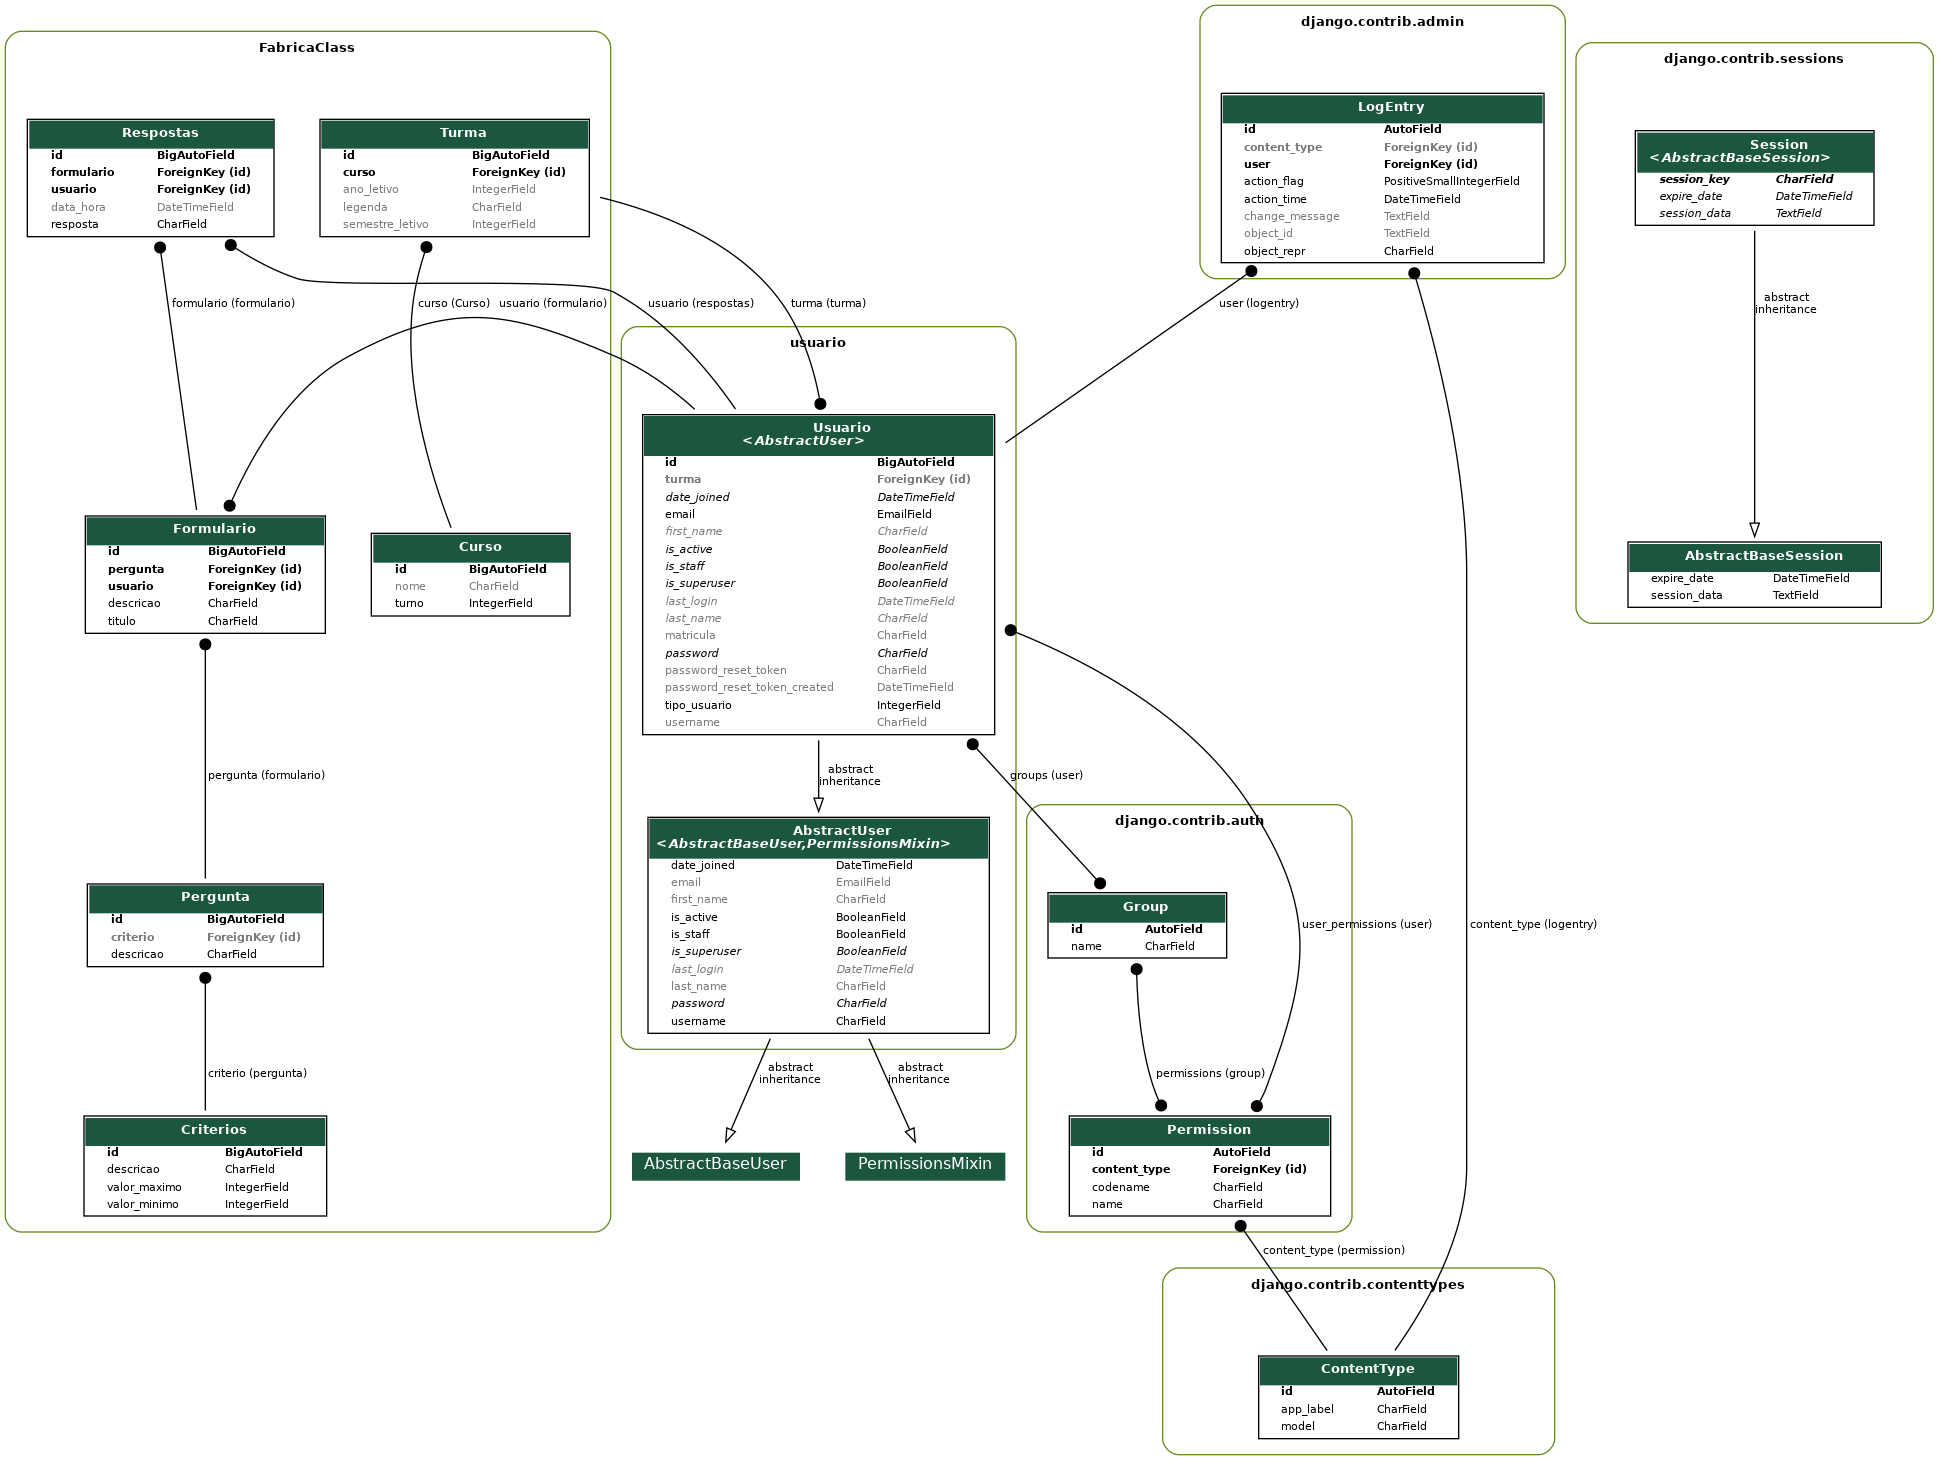
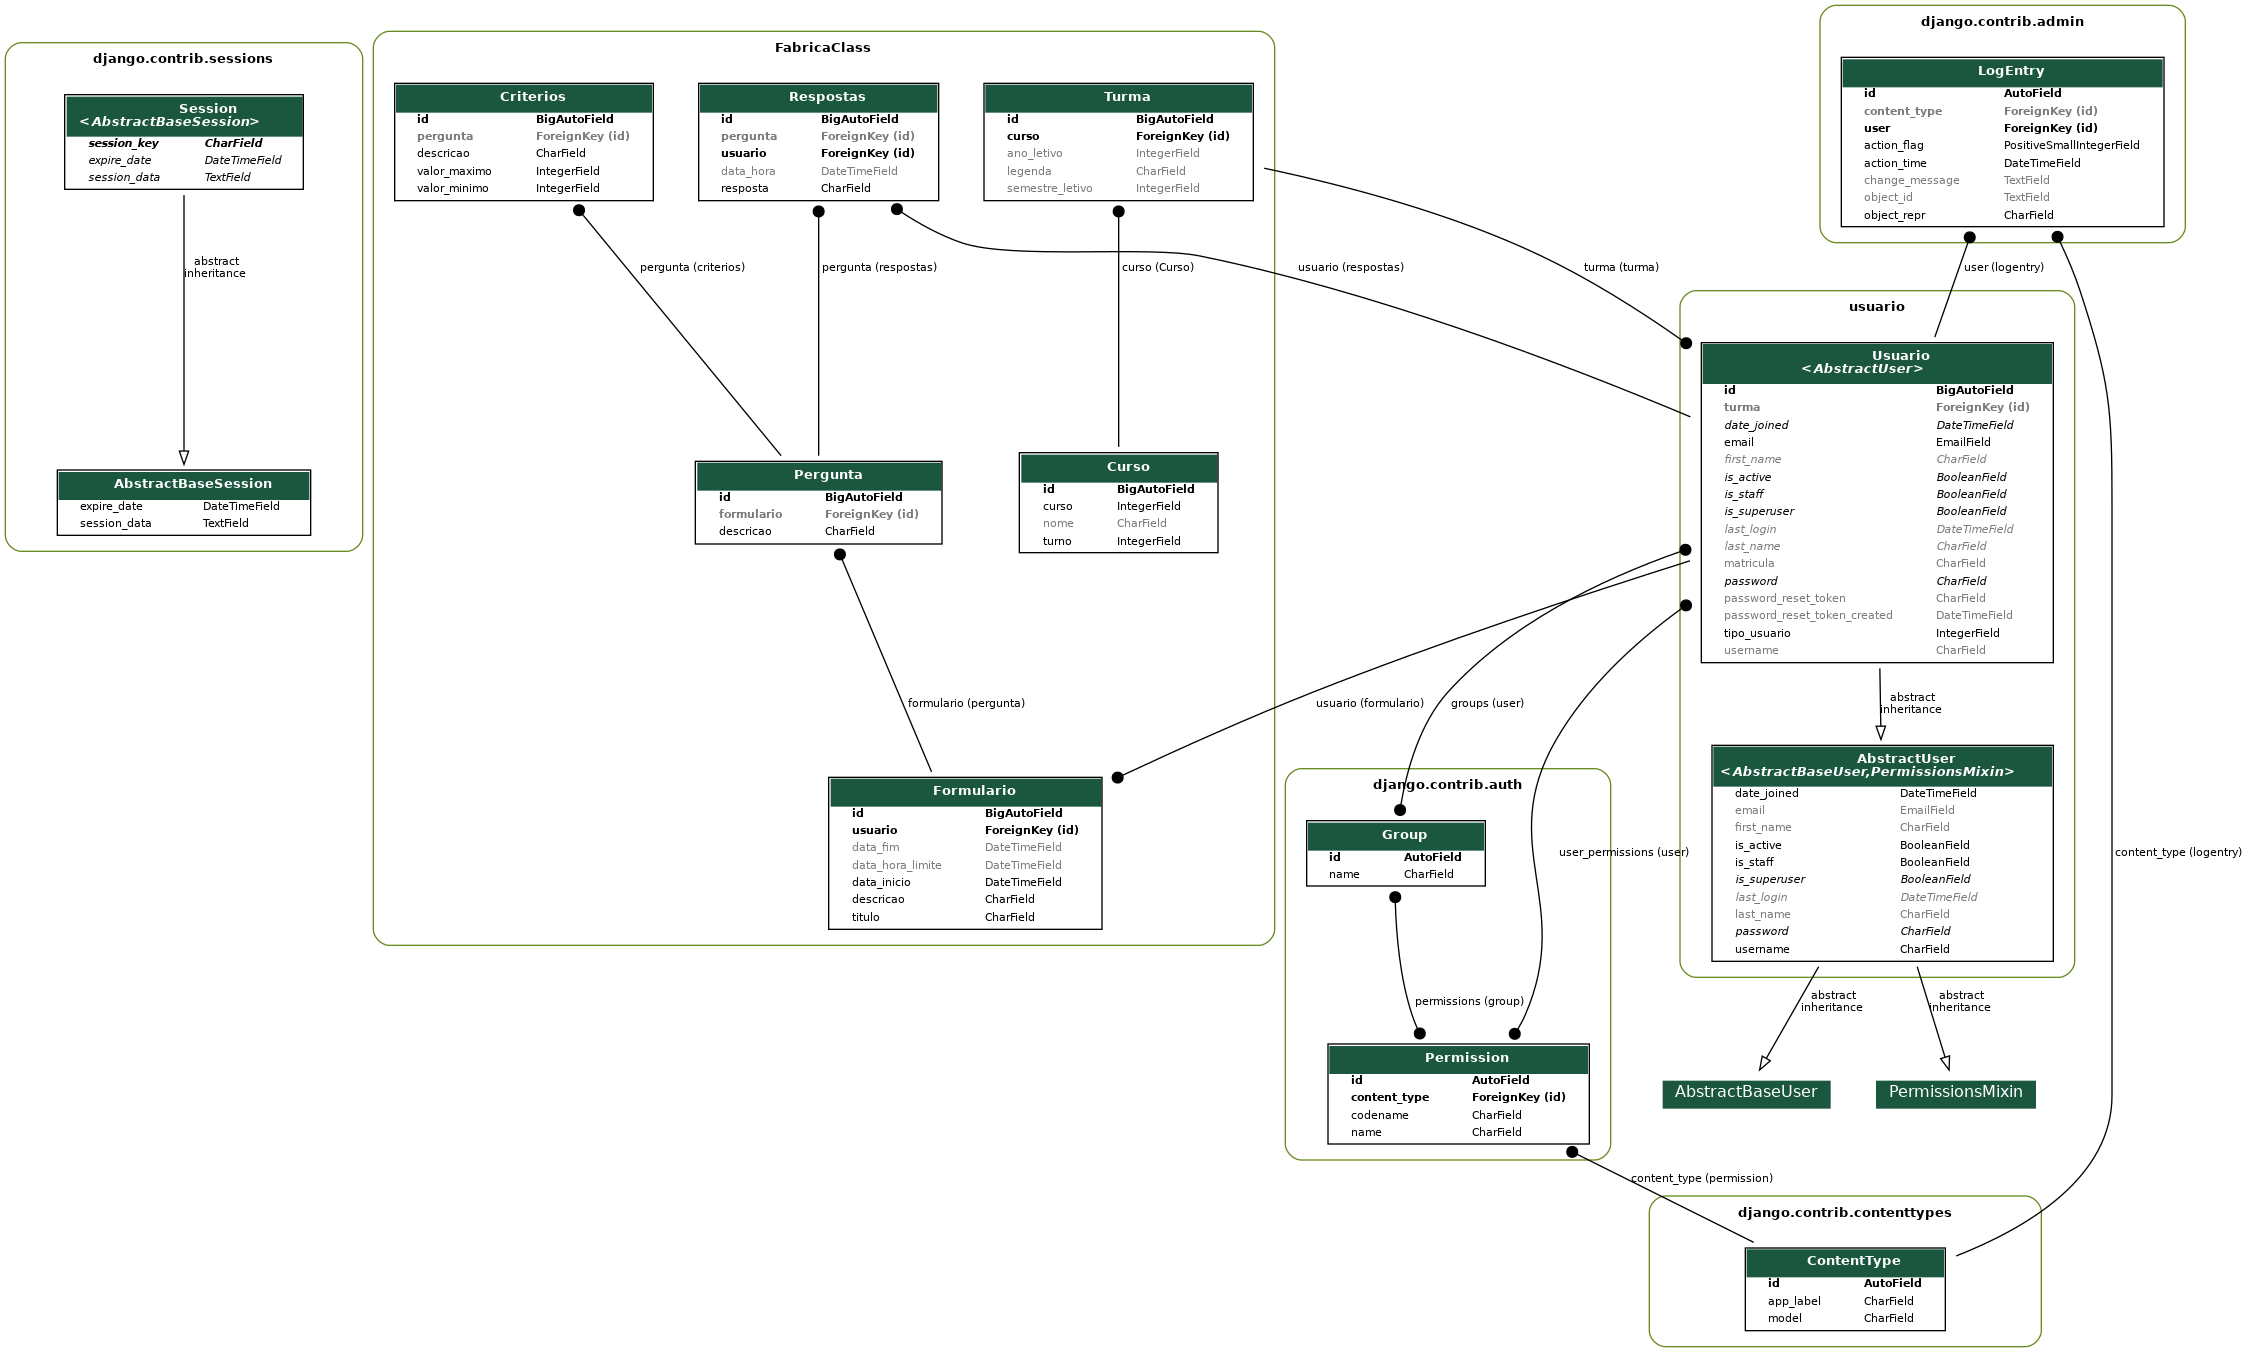
REFACTOR: Serializers, views e models

diff --git a/core/settings.py b/core/settings.py
@@ -1,23 +1,20 @@
 from pathlib import Path
+from dotenv import load_dotenv #Adicionado
+import os #Adicionado
+
+load_dotenv() # Carregando variáveis de ambiente
 
 # Build paths inside the project like this: BASE_DIR / 'subdir'.
 BASE_DIR = Path(__file__).resolve().parent.parent
 
+SECRET_KEY = os.getenv("SECRET_KEY") #Vindo do arquivo .env
 
-# Quick-start development settings - unsuitable for production
-# See https://docs.djangoproject.com/en/4.2/howto/deployment/checklist/
-
-# SECURITY WARNING: keep the secret key used in production secret!
-SECRET_KEY = "django-insecure-9xspk4dl#^e8u-&g2^$2#l3)oe6jg5sn#d2gjd_d#6%qk=#%$0"
-
-# SECURITY WARNING: don't run with debug turned on in production!
 DEBUG = True
 
 ALLOWED_HOSTS = []
 
 
 # Application definition
-
 INSTALLED_APPS = [
     "django.contrib.admin",
     "django.contrib.auth",
@@ -96,10 +93,15 @@ AUTH_PASSWORD_VALIDATORS = [
 ]
 
 REST_FRAMEWORK = {
+    "DEFAULT_PAGINATION_CLASS": "rest_framework.pagination.LimitOffsetPagination", #Adicionando Paginação
+    "PAGE_SIZE": 50, #Adicionando Limite de Paginação
     "DEFAULT_SCHEMA_CLASS": "drf_spectacular.openapi.AutoSchema", #Adicionando Spectacular
     "DEFAULT_AUTHENTICATION_CLASSES": (
         "rest_framework_simplejwt.authentication.JWTAuthentication",  #Adicionando JWT  
     ),
+    "DEFAULT_PERMISSION_CLASSES": [
+        "rest_framework.permissions.DjangoModelPermissions", #Adicionando permissões
+    ],
 }
 
 SPECTACULAR_SETTINGS = {
@@ -139,9 +141,15 @@ CORS_ALLOW_ALL_ORIGINS = True # Adicionando Cors
 AUTH_USER_MODEL = "usuario.Usuario" # Trocando o modelo de usuário padrão do Django
 
 #Adicionando o envio de e-mail
-EMAIL_BACKEND = 'django.core.mail.backends.smtp.EmailBackend'
-EMAIL_HOST = 'smtp.gmail.com'
-EMAIL_PORT = 587
-EMAIL_USE_TLS = True
-EMAIL_HOST_USER = "suporte.fabricaclass@gmail.com"
-EMAIL_HOST_PASSWORD = "hvnz resu zood wosz"
+EMAIL_BACKEND = os.getenv("EMAIL_BACKEND")
+EMAIL_HOST = os.getenv("EMAIL_HOST")
+EMAIL_PORT = os.getenv("EMAIL_PORT")
+EMAIL_USE_TLS = os.getenv("EMAIL_USE_TLS")
+EMAIL_HOST_USER = os.getenv("EMAIL_HOST_USER")
+EMAIL_HOST_PASSWORD = os.getenv("EMAIL_HOST_PASSWORD")
+
+#Adicionando configurações de paginação
+DEFAULT_LIMIT: int = None
+LIMIT_QUERY_PARAM: str = "l"
+OFFSET_QUERY_PARAM: str = "o"
+MAX_LIMIT: int = 100

diff --git a/FabricaClass/migrations/0010_remove_formulario_pergunta_remove_pergunta_criterio_and_more.py b/FabricaClass/migrations/0010_remove_formulario_pergunta_remove_pergunta_criterio_and_more.py
@@ -1,0 +1,55 @@
+# Generated by Django 4.2.5 on 2024-04-26 20:47
+
+from django.db import migrations, models
+import django.db.models.deletion
+
+
+class Migration(migrations.Migration):
+    dependencies = [
+        ("FabricaClass", "0009_curso_curso_formulario_data_fim_and_more"),
+    ]
+
+    operations = [
+        migrations.RemoveField(
+            model_name="formulario",
+            name="pergunta",
+        ),
+        migrations.RemoveField(
+            model_name="pergunta",
+            name="criterio",
+        ),
+        migrations.RemoveField(
+            model_name="respostas",
+            name="formulario",
+        ),
+        migrations.AddField(
+            model_name="criterios",
+            name="pergunta",
+            field=models.ForeignKey(
+                blank=True,
+                null=True,
+                on_delete=django.db.models.deletion.CASCADE,
+                to="FabricaClass.pergunta",
+            ),
+        ),
+        migrations.AddField(
+            model_name="pergunta",
+            name="formulario",
+            field=models.ForeignKey(
+                blank=True,
+                null=True,
+                on_delete=django.db.models.deletion.CASCADE,
+                to="FabricaClass.formulario",
+            ),
+        ),
+        migrations.AddField(
+            model_name="respostas",
+            name="pergunta",
+            field=models.ForeignKey(
+                blank=True,
+                null=True,
+                on_delete=django.db.models.deletion.CASCADE,
+                to="FabricaClass.pergunta",
+            ),
+        ),
+    ]

diff --git a/FabricaClass/migrations/0009_curso_curso_formulario_data_fim_and_more.py b/FabricaClass/migrations/0009_curso_curso_formulario_data_fim_and_more.py
@@ -1,0 +1,35 @@
+# Generated by Django 4.2.5 on 2024-04-26 18:02
+
+from django.db import migrations, models
+import django.utils.timezone
+
+
+class Migration(migrations.Migration):
+    dependencies = [
+        ("FabricaClass", "0008_alter_criterios_descricao_alter_pergunta_descricao"),
+    ]
+
+    operations = [
+        migrations.AddField(
+            model_name="curso",
+            name="curso",
+            field=models.IntegerField(
+                choices=[(1, "Graduação"), (2, "Técnico")], default=2
+            ),
+        ),
+        migrations.AddField(
+            model_name="formulario",
+            name="data_fim",
+            field=models.DateTimeField(blank=True, null=True),
+        ),
+        migrations.AddField(
+            model_name="formulario",
+            name="data_hora_limite",
+            field=models.DateTimeField(blank=True, null=True),
+        ),
+        migrations.AddField(
+            model_name="formulario",
+            name="data_inicio",
+            field=models.DateTimeField(default=django.utils.timezone.now),
+        ),
+    ]

diff --git a/FabricaClass/models/curso.py b/FabricaClass/models/curso.py
@@ -4,11 +4,6 @@ class Curso(models.Model):
     class TipoCurso(models.IntegerChoices):
         Graduacao = (1, "Graduação",)
         Tecnico = (2, "Técnico",)
-        
-    class NomeCurso(models.IntegerChoices):
-        Informatica = (1, "Informática",)
-        MedicinaVeterinaria = (2, "Medicina Veterinária",)
-
     class TurnoCurso(models.IntegerChoices):
         Matutino = (1, "Matutino",)
         Vespertino = (2, "Vespertino",)
@@ -16,6 +11,7 @@ class Curso(models.Model):
         Integral = (4, "Integral",)
     nome = models.CharField(max_length=255, blank=True, null=True)
     turno = models.IntegerField(choices=TurnoCurso.choices,  default=TurnoCurso.Integral)
+    curso = models.IntegerField(choices=TipoCurso.choices,  default=TipoCurso.Tecnico)
 
     def __str__(self):
         return self.nome

diff --git a/FabricaClass/models/formulario.py b/FabricaClass/models/formulario.py
@@ -1,15 +1,13 @@
 from django.db import models
-from .pergunta import Pergunta
-import datetime
+from django.utils import timezone
 
 class Formulario(models.Model):
-    data_hora_limite = datetime
-    data_inicio = datetime.datetime.now()
-    data_fim = datetime
+    data_hora_limite = models.DateTimeField(null=True, blank=True)
+    data_inicio = models.DateTimeField(default=timezone.now)
+    data_fim = models.DateTimeField(null=True, blank=True)
     titulo = models.CharField(max_length=100)
     descricao = models.CharField(max_length=255)
     usuario = models.ForeignKey('usuario.Usuario', on_delete=models.CASCADE)
-    pergunta = models.ForeignKey(Pergunta, on_delete=models.CASCADE)
 
     def __str__(self):
         return self.titulo

diff --git a/FabricaClass/views/formulario.py b/FabricaClass/views/formulario.py
@@ -2,11 +2,14 @@ from rest_framework.viewsets import ModelViewSet
 from FabricaClass.models import Formulario
 from FabricaClass.serializers.formulario import FormularioListSerializer, FormularioWriteSerializer
 from drf_spectacular.utils import extend_schema
+from FabricaClass.paginations import FormularioPagination
 
 
-@extend_schema(tags=["Formulario"])
+extend_schema(tags=['Formulario'])
 class FormularioViewSet(ModelViewSet):
     queryset = Formulario.objects.all()
+    http_method_names = ["get", "post", "patch", "delete"]
+    pagination_class = FormularioPagination
     
     def get_serializer_class(self):
         if self.action in ["list"]:

diff --git a/FabricaClass/serializers/curso.py b/FabricaClass/serializers/curso.py
@@ -1,12 +1,10 @@
-from rest_framework.serializers import ModelSerializer
+from rest_framework import serializers
 from FabricaClass.models import Curso
 
-class CursoSerializer(ModelSerializer):
+class CursoSerializer(serializers.ModelSerializer):
+    turno = serializers.CharField(source='get_TurnoCurso_display')
+    curso = serializers.CharField(source='get_TipoCurso_display')
+
     class Meta:
         model = Curso
-        fields: list[str] = [
-            'id'
-            'TipoCurso',
-            'NomeCurso',
-            'TurnoCurso',
-        ]
+        fields = ['id', 'nome', 'turno', 'curso']

diff --git a/FabricaClass/paginations/pagination.py b/FabricaClass/paginations/pagination.py
@@ -1,0 +1,16 @@
+from rest_framework import pagination
+from FabricaClass.models import Formulario
+from core.settings import DEFAULT_LIMIT, LIMIT_QUERY_PARAM, OFFSET_QUERY_PARAM, MAX_LIMIT
+
+
+class FormularioPagination(pagination.LimitOffsetPagination):
+    default_limit = DEFAULT_LIMIT
+    limit_query_param = LIMIT_QUERY_PARAM
+    offset_query_param = OFFSET_QUERY_PARAM
+    max_limit = MAX_LIMIT
+
+    def get_limit(self, request):
+        limit = super().get_limit(request)
+        if limit is None:
+            return len(Formulario.objects.all())
+        return limit

diff --git a/usuario/utils/newPassword.py b/usuario/utils/newPassword.py
@@ -8,6 +8,8 @@ from django.core.mail import BadHeaderError, send_mail
 from django.core.exceptions import ValidationError
 from django.http import HttpResponse
 from usuario.models import Usuario
+from drf_spectacular.utils import extend_schema
+
 
 def send_email(email, message, subject):
         recipient_list = [email]
@@ -30,6 +32,7 @@ def send_email(email, message, subject):
             {"message": "Email enviado com sucesso"}, status=status.HTTP_200_OK
         )
 
+@extend_schema(tags=['Usuario'])
 @api_view(["POST"])
 @authentication_classes([])
 @permission_classes([])

diff --git a/FabricaClass/models/respostas.py b/FabricaClass/models/respostas.py
@@ -4,8 +4,8 @@ from FabricaClass.models import Formulario
 class Respostas(models.Model):
     data_hora = models.DateTimeField(auto_now_add=True)
     resposta = models.CharField(max_length=255)
-    formulario = models.ForeignKey(Formulario, on_delete=models.PROTECT, related_name='formulario')
     usuario = models.ForeignKey('usuario.Usuario', on_delete=models.CASCADE)
+    pergunta = models.ForeignKey("Pergunta", on_delete=models.CASCADE, blank=True, null=True, unique=False)
 
     def __str__(self):
         return self.resposta

diff --git a/FabricaClass/models/pergunta.py b/FabricaClass/models/pergunta.py
@@ -1,7 +1,10 @@
 from django.db import models
+from FabricaClass.models import Formulario
 
 class Pergunta(models.Model):
     descricao = models.CharField(max_length=255, default="Pergunta", null=True)
-    criterio = models.ForeignKey("Criterios", on_delete=models.CASCADE, blank=True, null=True, unique=False)
+    formulario = models.ForeignKey(Formulario, on_delete=models.CASCADE, blank=True, null=True, unique=False)
     
 
+    def __str__(self): 
+        return self.descricao

diff --git a/FabricaClass/views/criterios.py b/FabricaClass/views/criterios.py
@@ -1,7 +1,10 @@
 from rest_framework.viewsets import ModelViewSet
 from FabricaClass.models import Criterios
 from FabricaClass.serializers import CriteriosSerializer
+from drf_spectacular.utils import extend_schema
 
+@extend_schema(tags=['Criterios'])
 class CriteriosViewSet(ModelViewSet):
     queryset = Criterios.objects.all()
     serializer_class = CriteriosSerializer
+    http_method_names = ['get', 'post', 'patch', 'delete']
